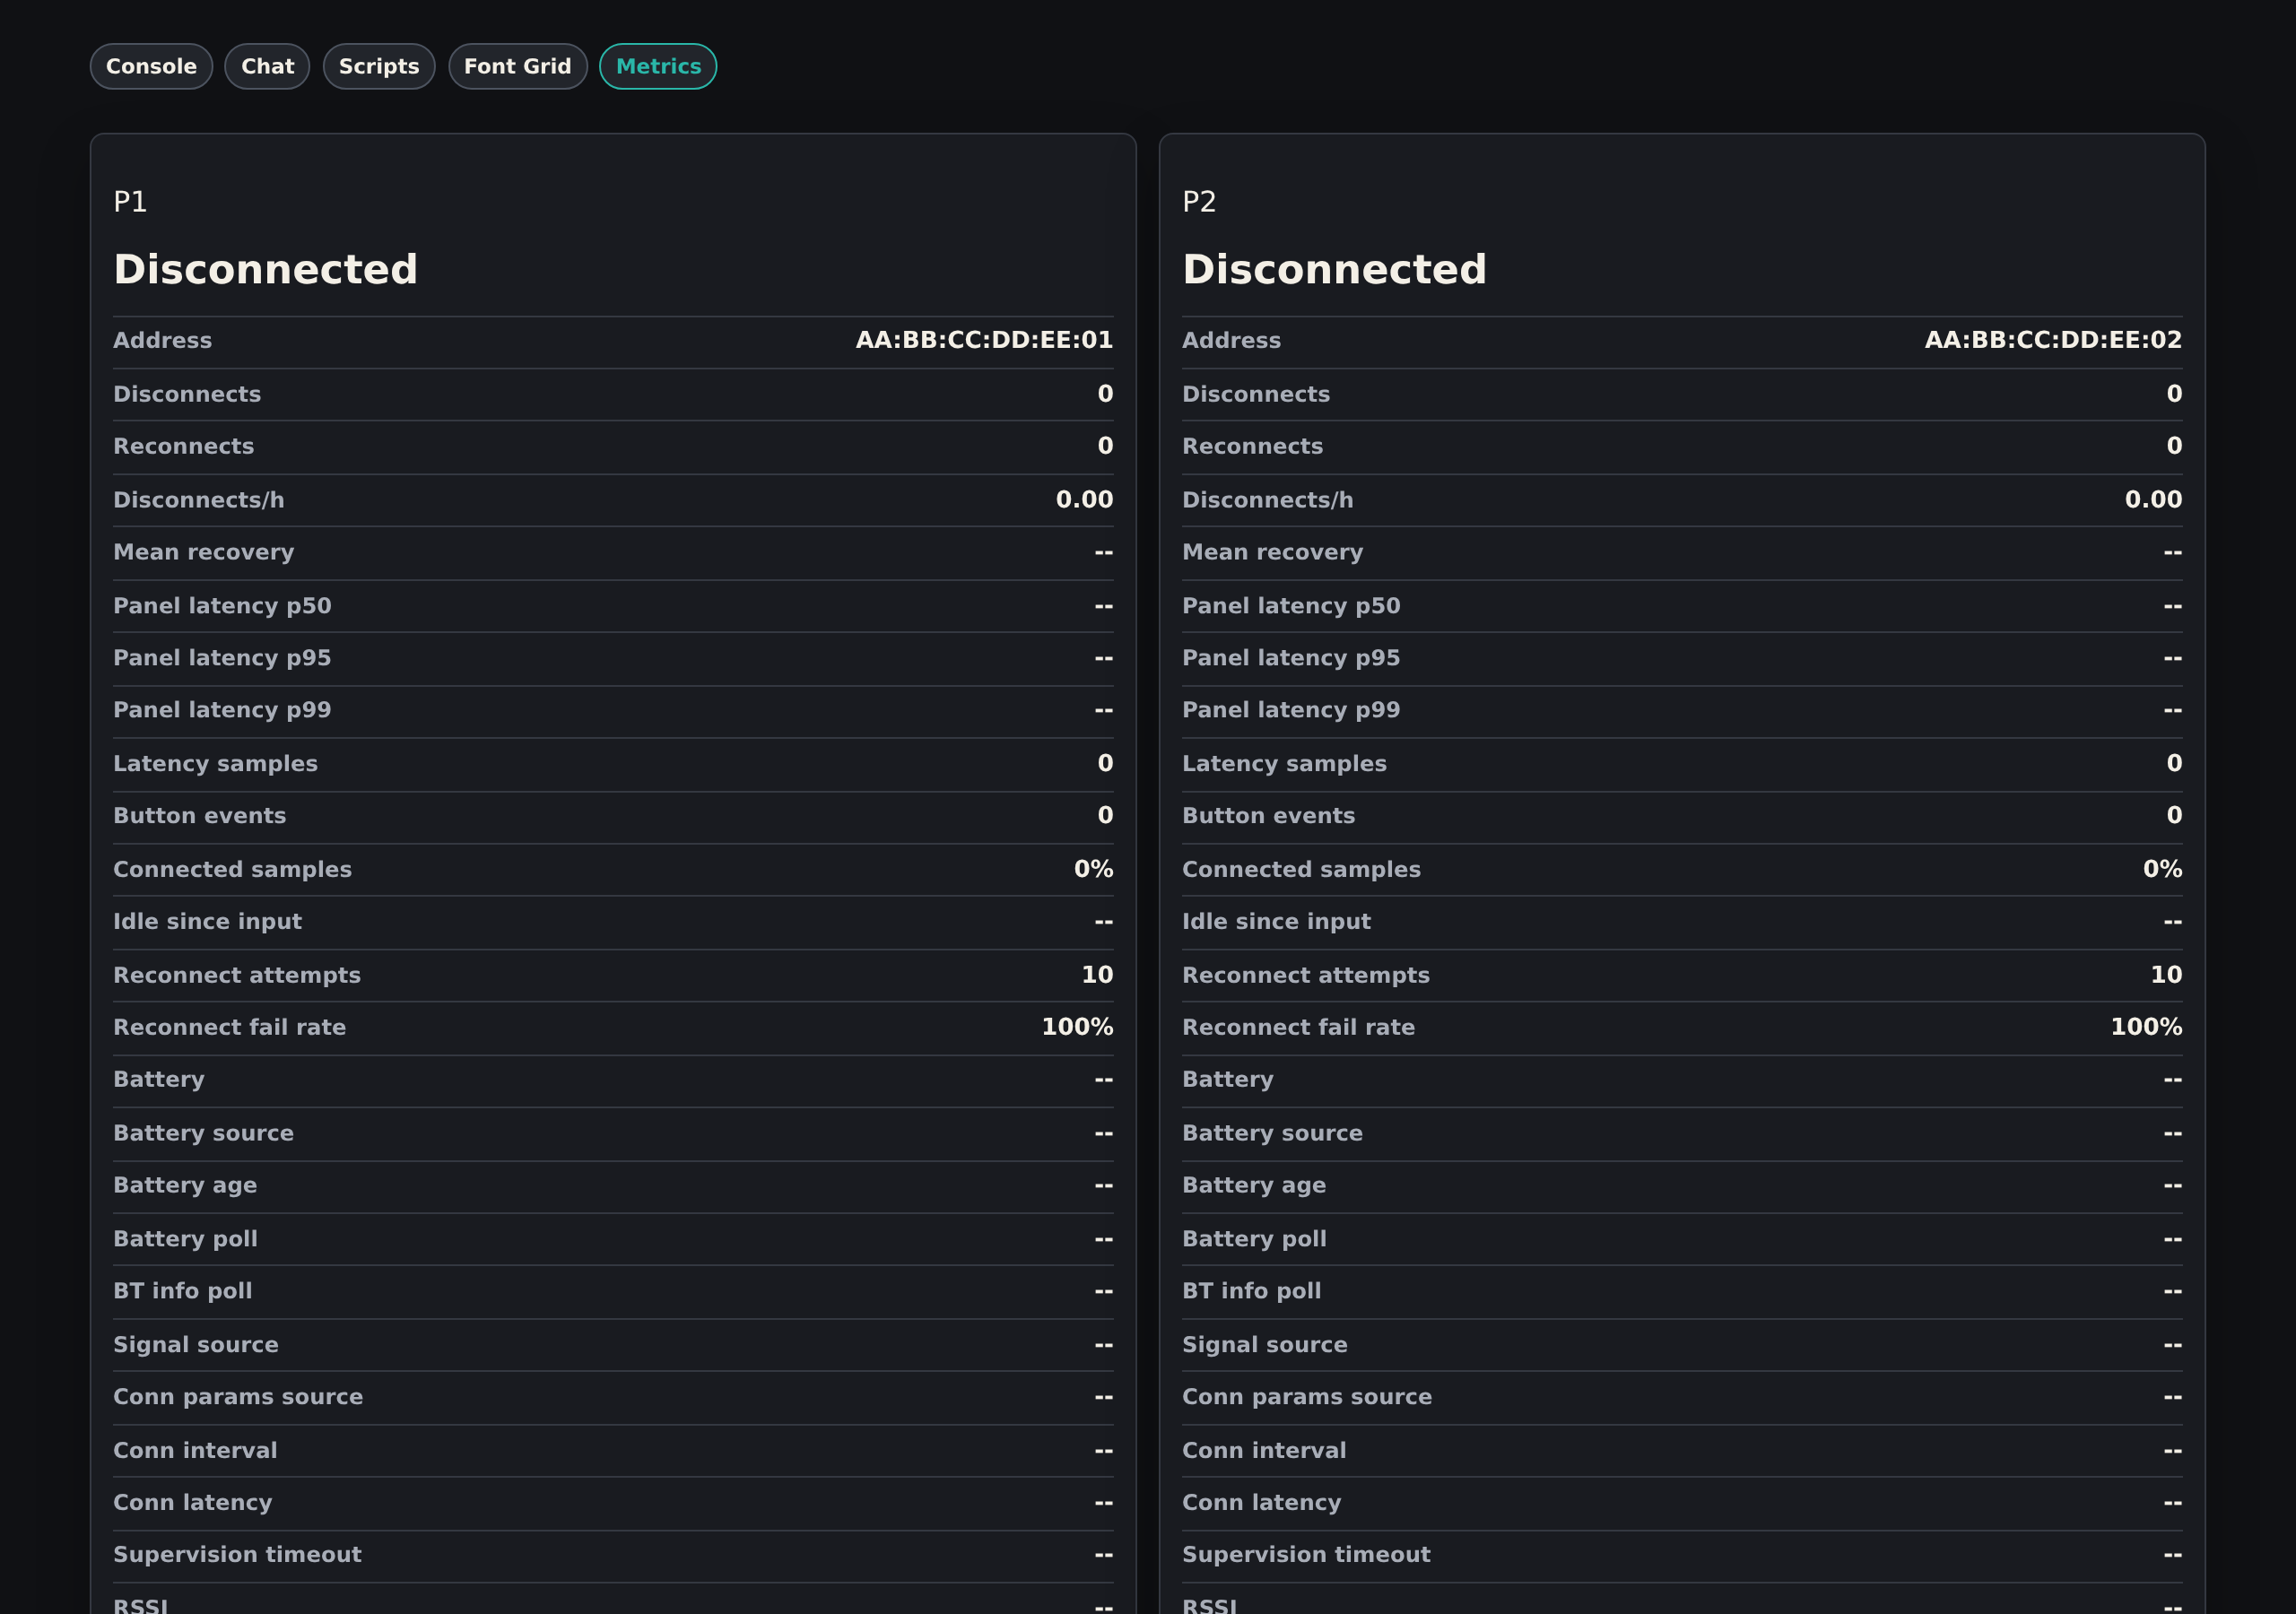
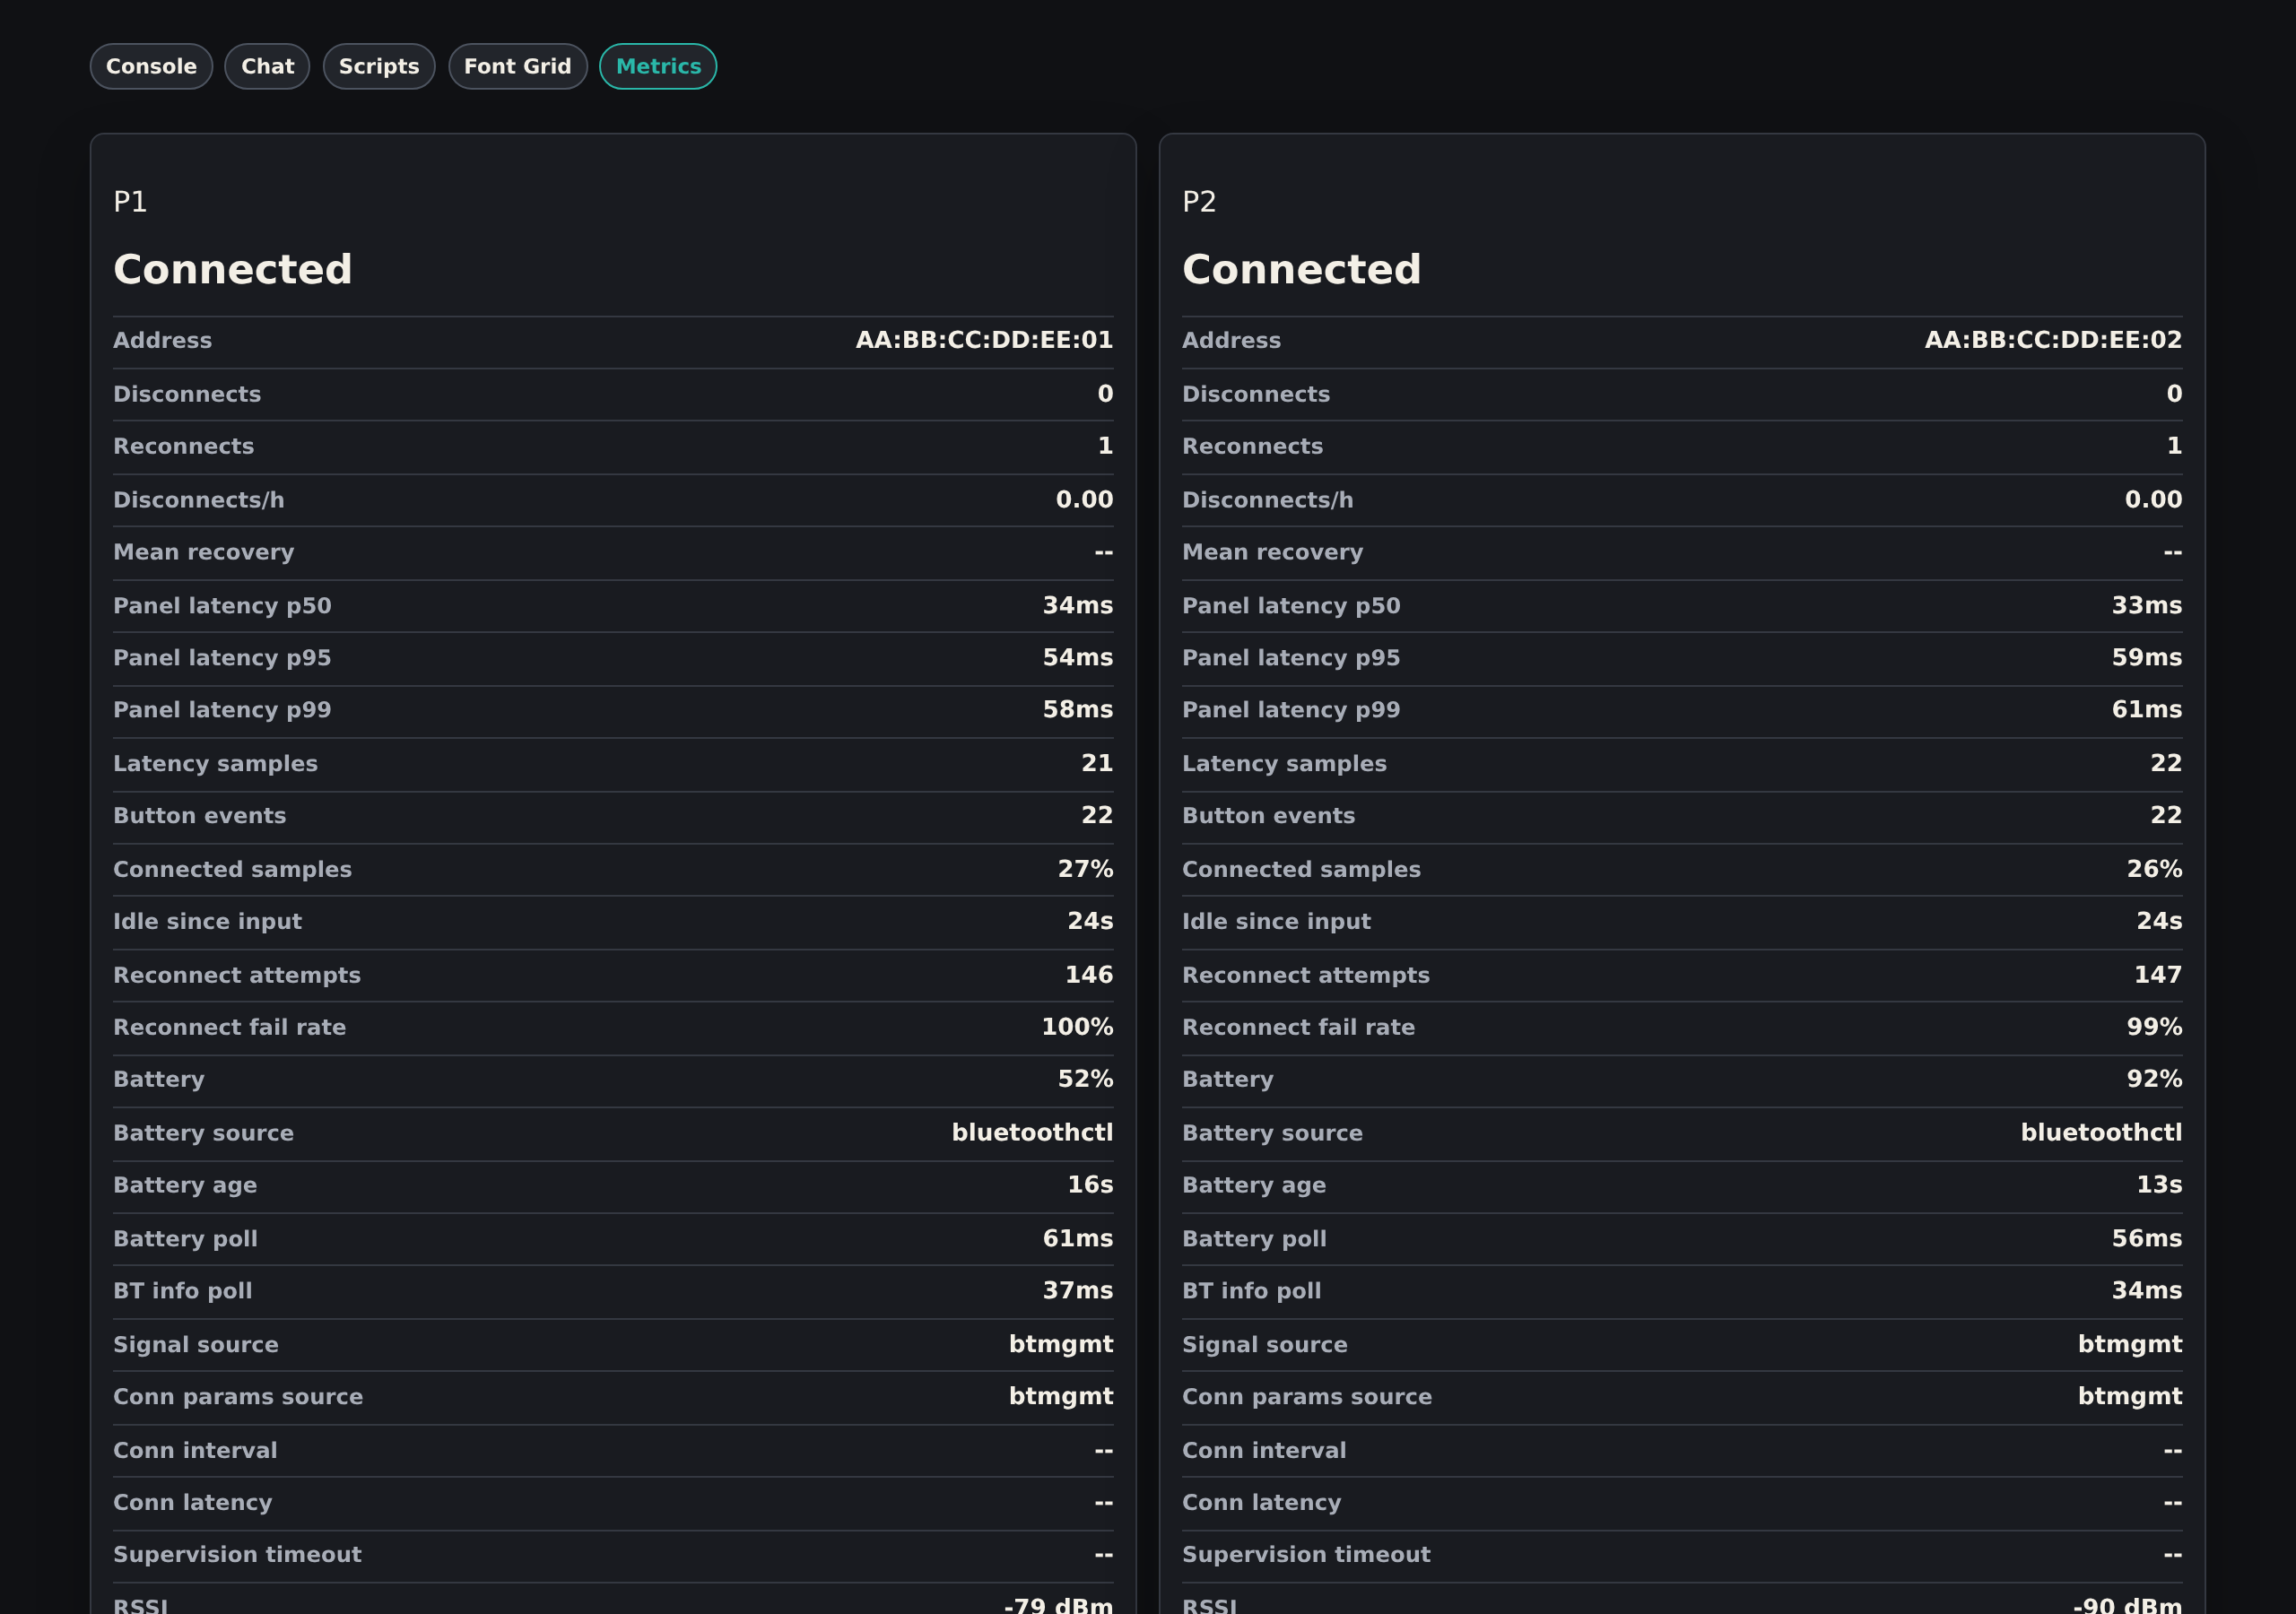
Swap in Fable 5 swirl demo + RSSI graph screenshot
Hero GIF is now a double-arm spiral Claude Fable 5 designed and
iterated on itself; metrics screenshot retaken with both controllers
connected, plus a dedicated RSSI history chart.

diff --git a/README.md b/README.md
@@ -4,9 +4,9 @@ An interactive art installation on a **28×28 flip-dot display** — four stacke
 
 <!-- TODO: photo/GIF of the physical installation -->
 
-![Web console mirroring the live panel — playing a fish animation the AI chat wrote](docs/screenshots/console.gif)
+![Web console mirroring the live panel — playing a spiral animation the AI chat wrote](docs/screenshots/console.gif)
 
-*The web console mirroring the panel live — running a fish animation the in-UI AI chat wrote and saved seconds earlier.*
+*The web console mirroring the panel live — running a "swirl" animation the in-UI AI chat wrote and saved seconds earlier.*
 
 ## Modes
 
@@ -81,9 +81,9 @@ With `ENABLE_WEB_UI=true`, a FastAPI server mirrors the live frame to browsers o
 - `/font-grid` — bitmap font browser
 - `/controller-metrics` — live BLE link quality/RSSI for connected gamepads
 
-![AI chat creating a fish animation with GLM-5.2](docs/screenshots/chat.png)
+![AI chat creating a spiral animation with Claude Fable 5](docs/screenshots/chat.png)
 
-That conversation produced the animation in the GIF at the top of this page: asked for "fish swimming across the display, with bubbles rising", the model wrote a sandboxed Python frame generator with `run_script`, checked the result with `get_display`, and saved it as a reusable `fish_bubbles` script — one turn, about a cent.
+That conversation produced the animation in the GIF at the top of this page: asked for a mesmerizing looping animation of its own choosing, Claude Fable 5 wrote a sandboxed Python frame generator with `run_script`, looked at the result with `get_display`, refined it twice, and saved the final double-arm spiral as a reusable `swirl` script.
 
 | | |
 | --- | --- |
@@ -91,8 +91,8 @@ That conversation produced the animation in the GIF at the top of this page: ask
 | *Board mode: movable text objects + freehand drawing* | *Settings rail: sleep window, person detection, clock face* |
 | ![Script browser with a saved animation's source](docs/screenshots/scripts.png) | ![Bitmap font browser comparing glyph variants](docs/screenshots/font-grid.png) |
 | *Script browser with saved animations* | *Bitmap font grid comparing glyph variants* |
-| ![Controller metrics diagnostics page](docs/screenshots/metrics.png) | |
-| *BLE controller link diagnostics* | |
+| ![Controller metrics diagnostics page](docs/screenshots/metrics.png) | ![RSSI graph of both controllers over time](docs/screenshots/metrics-rssi.png) |
+| *BLE controller link diagnostics* | *Live RSSI history for both gamepads* |
 
 The same tool set (`get_display` as ASCII art, `set_mode`, board drawing, `run_script`, …) is exposed over **MCP** at `/mcp` for external AI agents. The endpoint stays disabled until `MCP_AUTH_TOKEN` is set, and is bearer-token-gated with DNS-rebinding protection.
 